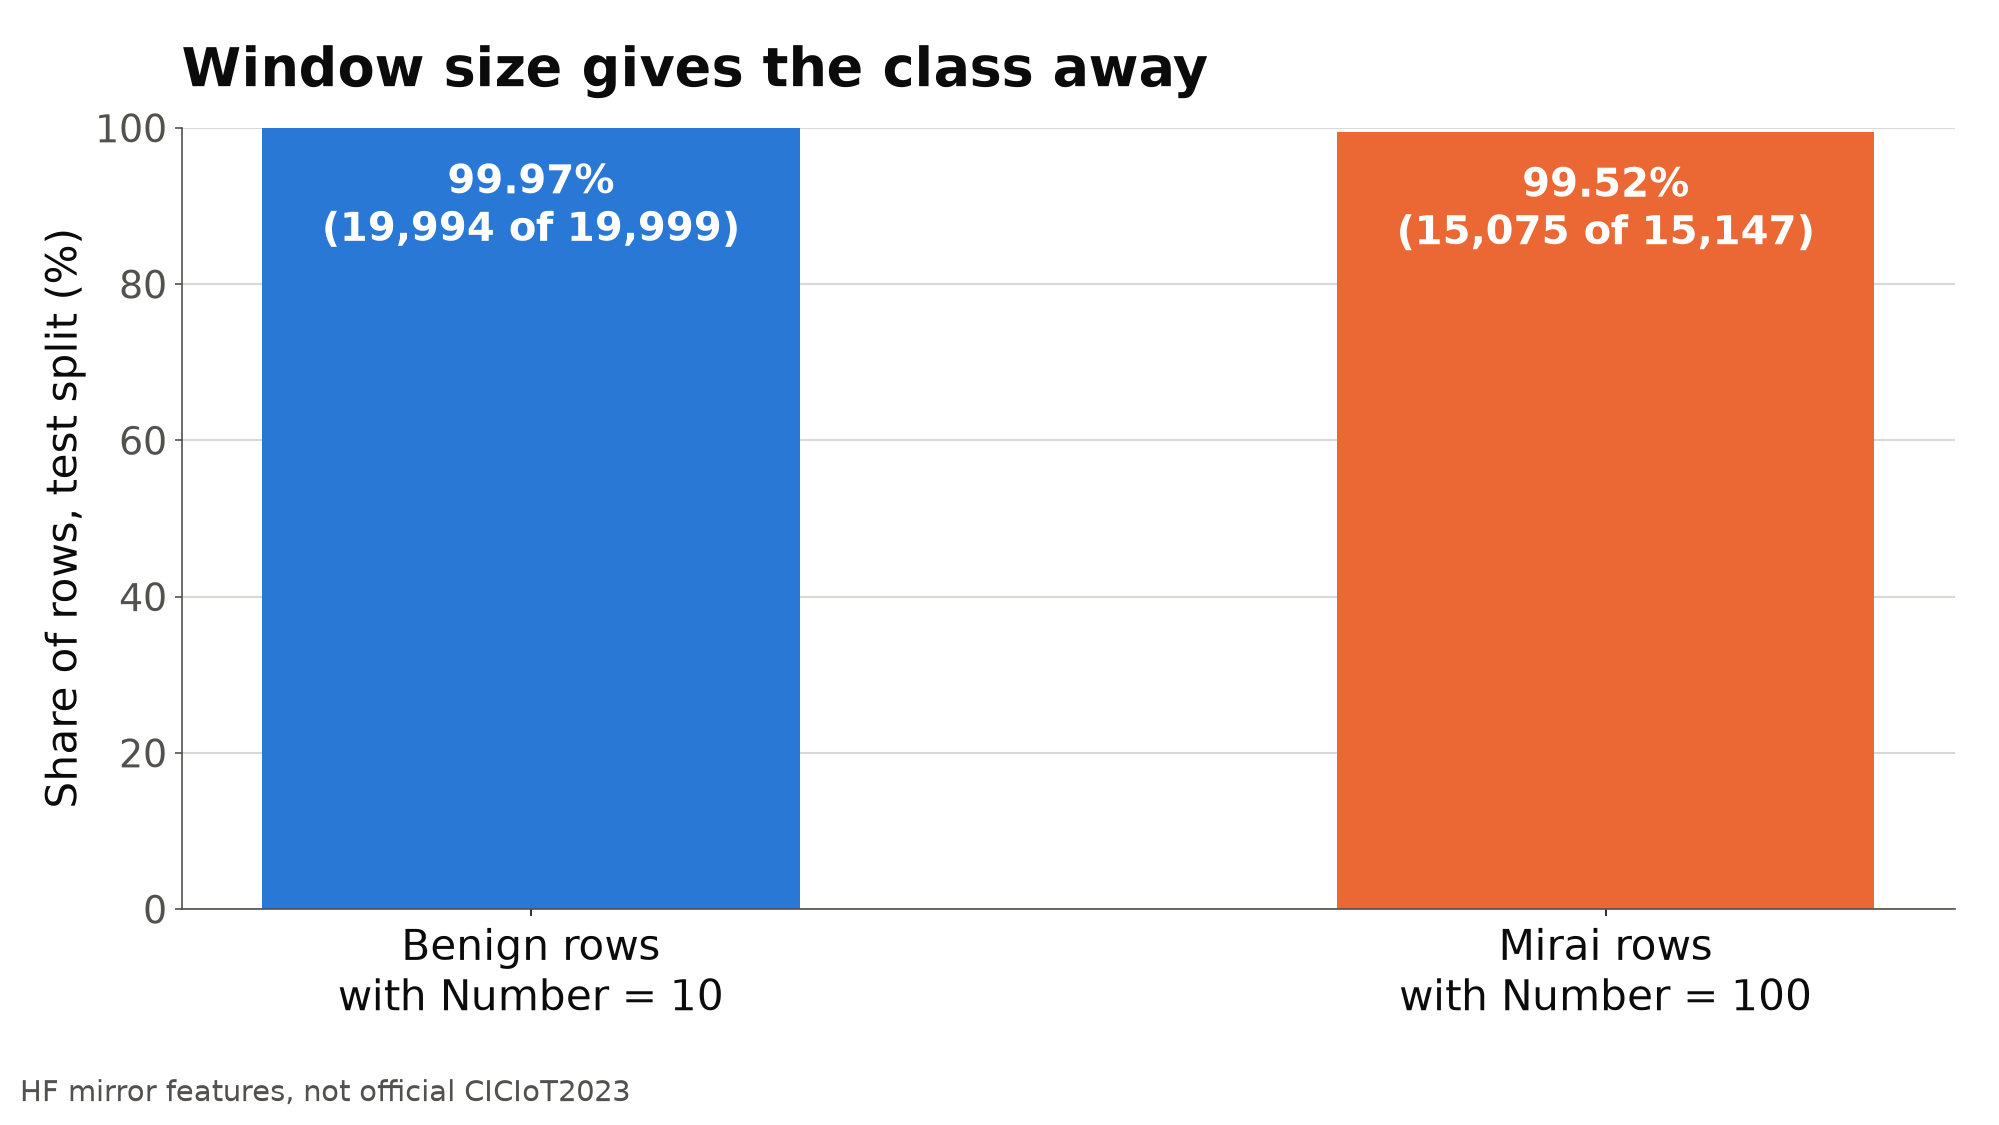
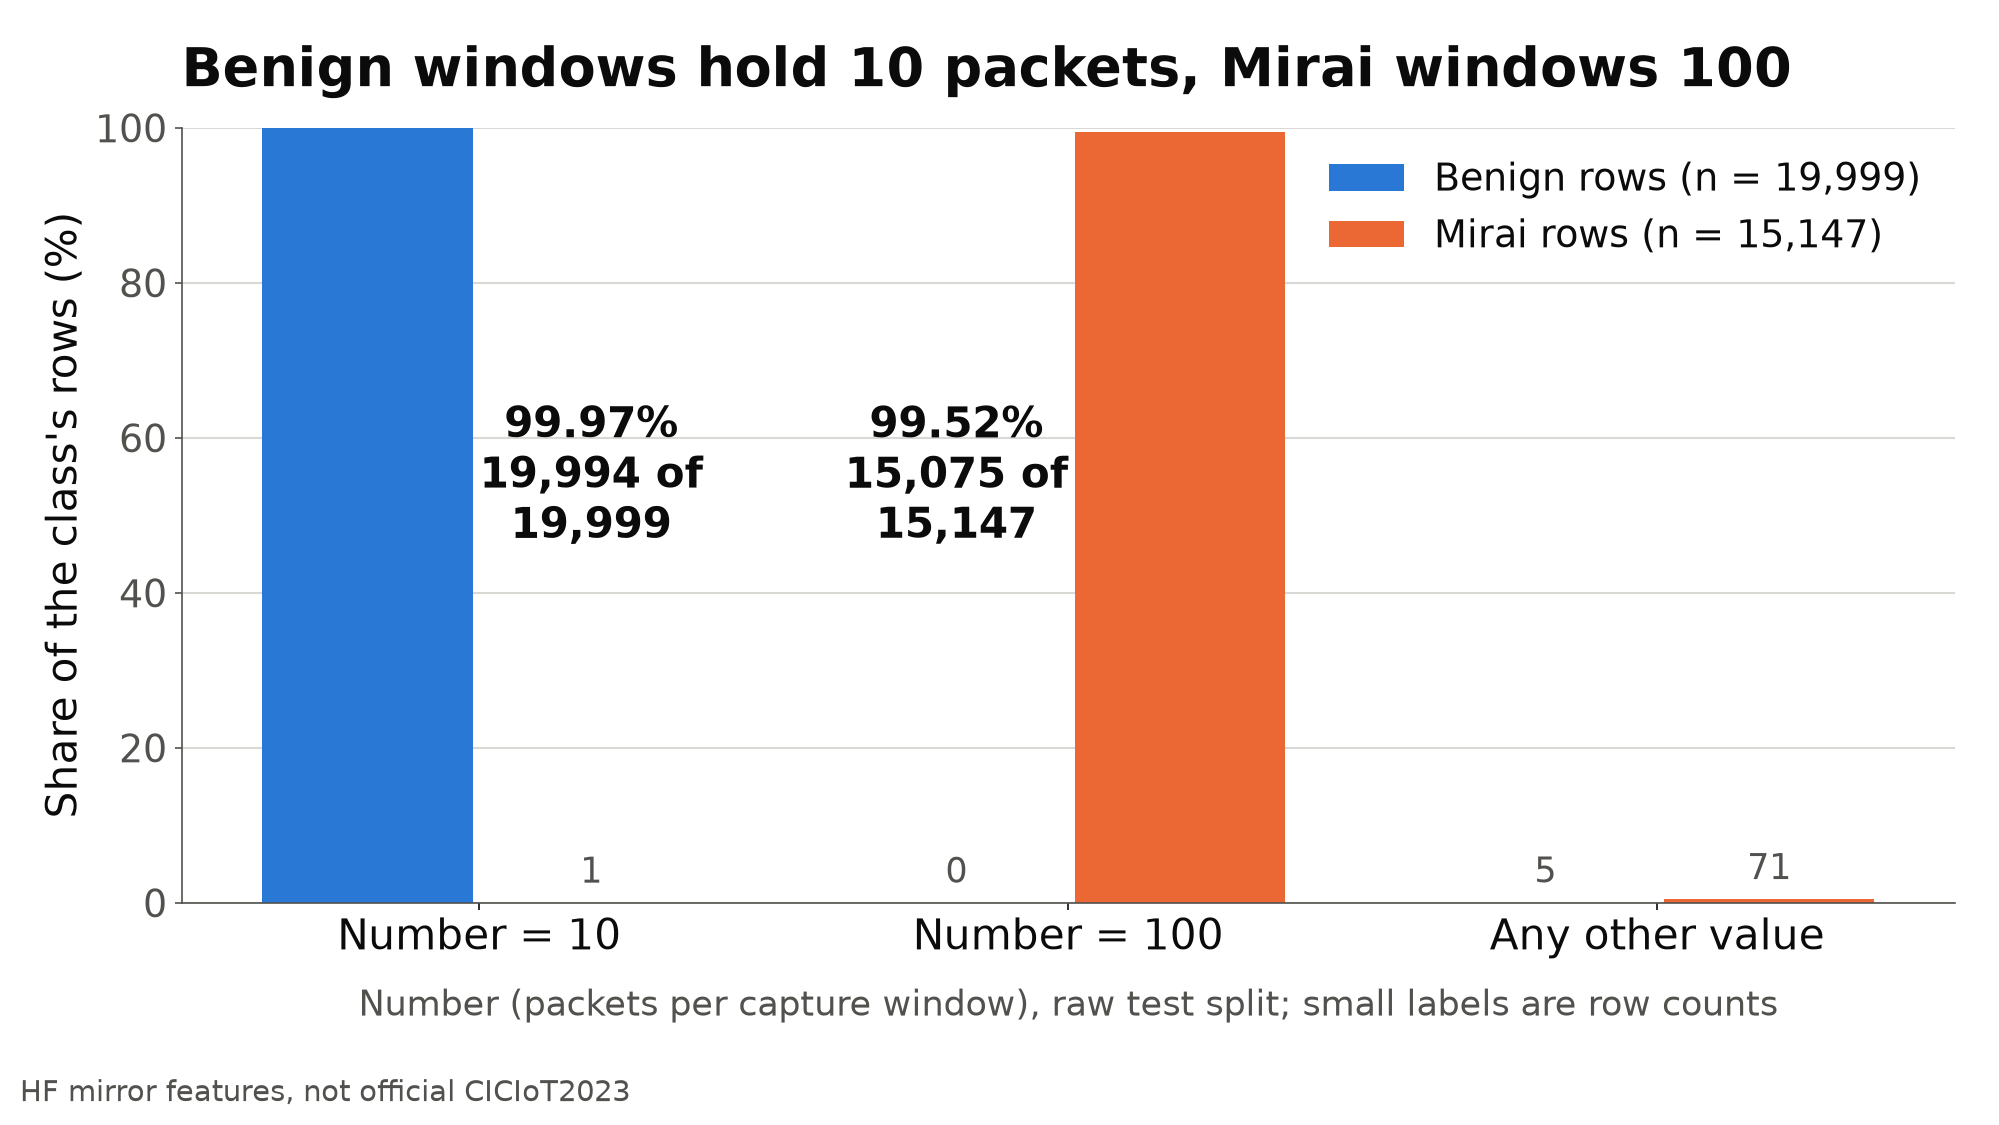
Redesign leakage figure to show Number distribution by class

diff --git a/p4_robustness/experiments/make_figures.py b/p4_robustness/experiments/make_figures.py
@@ -1,14 +1,15 @@
-"""Presentation figures for PP1, drawn from the COMMITTED results only.
+"""Presentation figures for PP1, drawn from the COMMITTED results (and, for figure 2, the raw test split).
 
 Run from the repo root:  python p4_robustness/experiments/make_figures.py
 
-Nothing is recomputed: every number is parsed from data/README.md,
-results/drift_results.md or results/xai_results.md. If a figure cannot be found
-there, the script raises instead of guessing. Output: results/figures/*.png,
+No experiment is rerun. Figures 1 and 3-6 parse every number from data/README.md,
+results/drift_results.md or results/xai_results.md. Figure 2 counts Number values in the
+raw test split and raises unless its two headline shares match data/README.md. If a figure
+cannot be found, the script raises instead of guessing. Output: results/figures/*.png,
 16:9, white background, large fonts for slides.
 
 1. leakage.png                 "off the 0.1 grid -> Mirai" accuracy before vs after quantising
-2. leakage_number.png          benign rows with Number = 10 vs Mirai rows with Number = 100
+2. leakage_number.png          Number value distribution by class (10, 100, other), raw test split
 3. drift_calibration.png       false alarms per 1000 windows, default vs calibrated
 4. drift_scenario_c_delay.png  Scenario C detection delay, mean ± std over seeds
 5. shap_top10.png              top 10 features by mean |SHAP|
@@ -188,16 +189,66 @@ def fig_leakage(out_dir):
     return _save(fig, "leakage.png", out_dir)
 
 
+NUMBER_GROUPS = ("10", "100", "Other")
+
+
+def number_groups(df):
+    """{class: {group: rows}} for Number = 10, Number = 100 and every other value, plus class totals."""
+    import data_prep
+    out = {}
+    for c, name in ((0, "benign"), (1, "Mirai")):
+        n = df.loc[df[data_prep.TARGET] == c, "Number"]
+        ten, hundred = int((n == 10).sum()), int((n == 100).sum())
+        out[name] = {"10": ten, "100": hundred, "Other": len(n) - ten - hundred, "total": len(n)}
+    return out
+
+
+def check_headline(groups, documented):
+    """Raise unless benign at 10 and Mirai at 100 match data/README.md (share to 2 dp, and counts)."""
+    for name, group in (("benign", "10"), ("Mirai", "100")):
+        rows, total = groups[name][group], groups[name]["total"]
+        measured = (round(100 * rows / total, 2), rows, total)
+        if measured != documented[name]:
+            raise ValueError(f"{name} Number = {group}: raw test split gives {measured}, "
+                             f"data/README.md says {documented[name]}")
+
+
+def raw_number_groups():
+    """Number groups counted from the raw (unquantised) test split, checked against data/README.md."""
+    import leakage_audit
+    groups = number_groups(leakage_audit.load_raw("test"))
+    check_headline(groups, number_shares())
+    return groups
+
+
 def fig_leakage_number(out_dir):
+    import numpy as np
     plt = _plt()
-    s = number_shares()
-    fig, ax = _new(plt, "Window size gives the class away")
-    labels = ["Benign rows\nwith Number = 10", "Mirai rows\nwith Number = 100"]
-    vals = [s["benign"][0], s["Mirai"][0]]
-    bars = ax.bar(labels, vals, width=0.5, color=[BLUE, ORANGE])
+    g = raw_number_groups()
+    fig, ax = _new(plt, "Benign windows hold 10 packets, Mirai windows 100")
+    x = np.arange(len(NUMBER_GROUPS))
+    w = 0.38
+    headline = {"benign": "10", "Mirai": "100"}
+    for i, (name, color) in enumerate((("benign", BLUE), ("Mirai", ORANGE))):
+        counts = [g[name][k] for k in NUMBER_GROUPS]
+        shares = [100 * c / g[name]["total"] for c in counts]
+        bars = ax.bar(x + (i - 0.5) * w, shares, w * 0.94, color=color,
+                      label=f"{name.capitalize()} rows (n = {g[name]['total']:,})")
+        for b, k, c, s in zip(bars, NUMBER_GROUPS, counts, shares):
+            cx = b.get_x() + b.get_width() / 2
+            if k == headline[name]:
+                # Beside the tall bar, in the slot of the other class's near-zero bar.
+                side = w if name == "benign" else -w
+                ax.text(cx + side, 55, f"{s:.2f}%\n{c:,} of\n{g[name]['total']:,}", ha="center",
+                        va="center", fontsize=20, color=INK, fontweight="bold")
+            else:
+                ax.text(cx, s + 1.5, f"{c:,}", ha="center", va="bottom", fontsize=17, color=INK_2)
+    ax.set_xticks(x, ["Number = 10", "Number = 100", "Any other value"])
     ax.set_ylim(0, 100)
-    ax.set_ylabel("Share of rows, test split (%)")
-    _inside_labels(ax, bars, [f"{v:.2f}%\n({n:,} of {t:,})" for v, n, t in (s["benign"], s["Mirai"])])
+    ax.set_ylabel("Share of the class's rows (%)")
+    ax.set_xlabel("Number (packets per capture window), raw test split; small labels are row counts",
+                  fontsize=17, color=INK_2, labelpad=14)
+    ax.legend(frameon=False, loc="upper right")
     return _save(fig, "leakage_number.png", out_dir)
 
 

diff --git a/p4_robustness/tests/test_make_figures.py b/p4_robustness/tests/test_make_figures.py
@@ -1,4 +1,7 @@
-"""Tests for experiments/make_figures.py: parsers read the committed files, and figures render."""
+"""Tests for experiments/make_figures.py: parsers read the committed files, and figures render.
+
+Tests that need the raw test split (figure 2) are skipped when it has not been downloaded.
+"""
 import sys
 from pathlib import Path
 
@@ -50,6 +53,33 @@ def test_mean_std_rejects_other_text():
         mf.mean_std("n/a")
 
 
+def number_frame():
+    import pandas as pd
+    # benign: 4 x Number 10, 1 x Number 4; Mirai: 3 x Number 100, 1 x Number 10, 1 x Number 57
+    return pd.DataFrame({"Number": [10, 10, 10, 10, 4, 100, 100, 100, 10, 57],
+                         "is_mirai": [0, 0, 0, 0, 0, 1, 1, 1, 1, 1]})
+
+
+def test_number_groups_counts_10_100_and_other_per_class():
+    g = mf.number_groups(number_frame())
+    assert g["benign"] == {"10": 4, "100": 0, "Other": 1, "total": 5}
+    assert g["Mirai"] == {"10": 1, "100": 3, "Other": 1, "total": 5}
+
+
+def test_check_headline_passes_and_raises():
+    g = mf.number_groups(number_frame())
+    mf.check_headline(g, {"benign": (80.0, 4, 5), "Mirai": (60.0, 3, 5)})
+    with pytest.raises(ValueError, match="benign Number = 10"):
+        mf.check_headline(g, {"benign": (99.97, 19994, 19999), "Mirai": (60.0, 3, 5)})
+
+
+@pytest.mark.skipif(not (mf.REPO_ROOT / "data" / "ciciot2023_hf" / "test.parquet").exists(),
+                    reason="needs the raw test split (python p4_robustness/data_prep.py)")
+def test_raw_number_groups_match_data_readme():
+    g = mf.raw_number_groups()  # raises if the headline shares differ from data/README.md
+    assert g["benign"]["total"] == mf.number_shares()["benign"][2]
+
+
 def test_leakage_rule_raises_when_figure_missing(tmp_path):
     p = tmp_path / "README.md"
     p.write_text("nothing here", encoding="utf-8")
@@ -57,6 +87,8 @@ def test_leakage_rule_raises_when_figure_missing(tmp_path):
         mf.leakage_rule(p)
 
 
+@pytest.mark.skipif(not (mf.REPO_ROOT / "data" / "ciciot2023_hf" / "test.parquet").exists(),
+                    reason="figure 2 needs the raw test split (python p4_robustness/data_prep.py)")
 def test_main_writes_six_16_9_white_pngs(tmp_path):
     from PIL import Image
     paths = mf.main(tmp_path)
